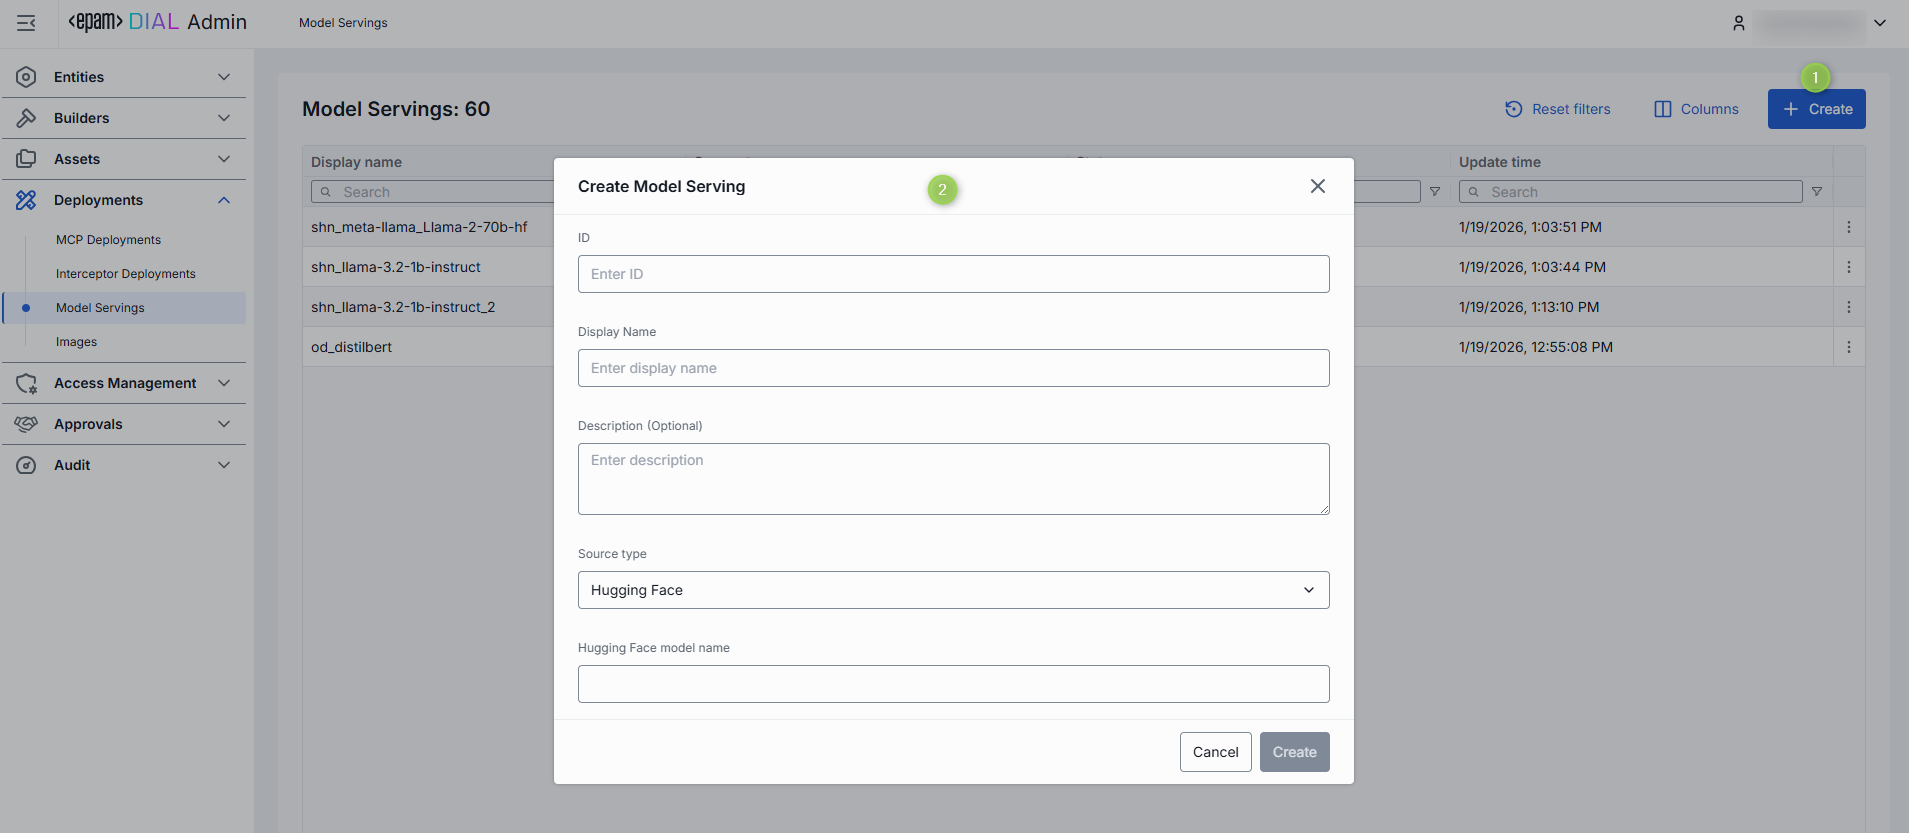
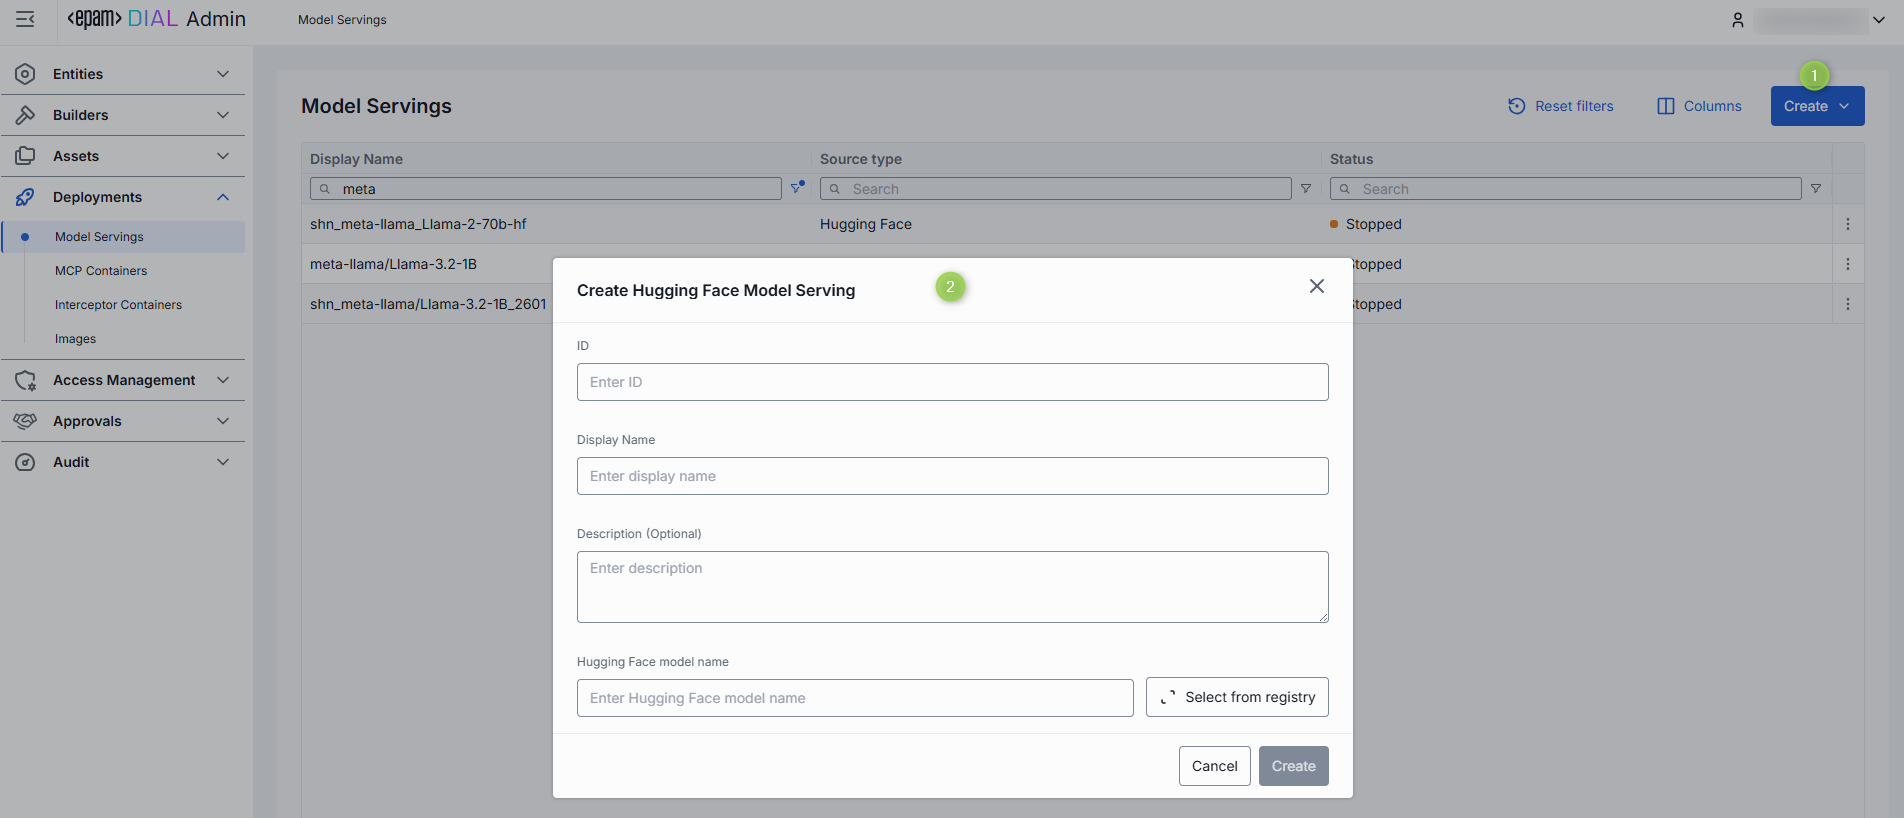
review model serving

diff --git a/sidebars.js b/sidebars.js
@@ -608,18 +608,18 @@ const sidebars = {
                   items: [
                     {
                       type: 'doc',
+                      id: 'tutorials/admin/deployments-models',
+                      label: 'Model Servings',
+                    },
+                    {
+                      type: 'doc',
                       id: 'tutorials/admin/deployments-mcp',
-                      label: 'MCP Deployments',
+                      label: 'MCP Containers',
                     },
                     {
                       type: 'doc',
                       id: 'tutorials/admin/deployments-interceptors',
-                      label: 'Interceptor Deployments',
-                    },
-                    {
-                      type: 'doc',
-                      id: 'tutorials/admin/deployments-models',
-                      label: 'Model Servings',
+                      label: 'Interceptor Containers',
                     },
                     {
                       type: 'doc',

diff --git a/docs/tutorials/3.admin/deployments-models.md b/docs/tutorials/3.admin/deployments-models.md
@@ -28,49 +28,48 @@ On the main screen, you can view existing and add new AI model servings.
 
 ##### Model servings grid
 
-|Field|Description|
-|---|----|
-|Display Name|Name of the model serving rendered on UI.|
-|Description|Brief description of the model serving.|
-|Source Type|Source type of the model (NIM or Hugging Face).|
-|Status|Current status of the model serving.|
-|ID|Unique identifier for the model serving.|
-|Container URL|URL of the container where the model is hosted.<br />Available for a running container.|
-|Maintainer|Person or team responsible for maintaining the model serving.|
-|Create time|Date and time when the model serving was created.|
-|Update time|Date and time when the model serving was last updated.|
+| Field | Description |
+|-------|-------------|
+| Display Name | Name of the model serving rendered on UI. |
+| Description | Brief description of the model serving. |
+| Source Type | Source type of the model (NIM or Hugging Face). |
+| Status | Current status of the model serving. |
+| ID | Unique identifier for the model serving. |
+| Container URL | URL of the container where the model is hosted.<br />Available for a running container. |
+| Maintainer | Person or team responsible for maintaining the model serving. |
+| Create time | Date and time when the model serving was created. |
+| Update time | Date and time when the model serving was last updated. |
 
-## Create
+## Create Model Serving
 
-On the main screen, click the **Create** button to open the Create Model Serving form.
+On the main screen, use the **Create** button to create Hugging Face or NIM model servings.
 
 ##### To create a new model serving:
 
-1. Click the **Create** button on the main screen to open the Create Model Serving form.
-2. Fill in the required fields in the form:
+1. Click the **Create** button on the main screen and select which type of model serving you want to create.
+2. Fill in the required fields in the Model Serving form:
    - **ID**: Unique identifier for the model serving.
    - **Display Name**: Enter a name for the model serving.
    - **Description**: Provide a brief description of the model serving.
-   - **Source Type**: Select the source type (NIM or Hugging Face).
-   - **Hugging Face Model Name**: Applies to Hugging Face source type. Enter the name of the model from Hugging Face.
+   - **Hugging Face Model Name**: Applies to Hugging Face source type. Enter the name of the model from Hugging Face or select from the registry.
    - **Docker Image URI**: Applies to NIM source type. Enter the Docker image URI for the model.
 3. Click the **Create** button to submit the form and create the model serving.
 
 ![](img/create_model_serving.png)
 
-## Configuration Screen
+## Configuration
 
-Click any model serving from the main screen to open its configuration screen.
+Click any model serving from the main screen to open its configuration.
 
 ### Actions
 
 In the header of the Configuration screen, you can find the following action buttons:
 
-| Action         | Description                                                  |
-|----------------|--------------------------------------------------------------|
-| Create Model          | Available for running model servings.<br />Click to create a new [model deployment](/docs/tutorials/3.admin/entities-models.md) using this selected model serving.|
-| Run/Stop        | Click to start or stop the selected model serving.|  
-| Delete         | Click to delete the selected model serving.|
+| Action | Description |
+|--------|-------------|
+| Create Model | Available for running model servings.<br />Click to create a new [model deployment](/docs/tutorials/3.admin/entities-models.md) using this selected model serving. |
+| Run/Stop | Click to start or stop the selected model serving. |
+| Delete | Click to delete the selected model serving. |
 
 ![ ](img/model_serving_actions.png)
 
@@ -92,24 +91,26 @@ You can use a **running** model serving container to create a new model deployme
 
 In the Properties tab, you can view and edit the selected model serving container settings.
 
-| Property         | Required | Editable | Description                                                  |
-|------------------|----------|---------|----------------------------------------------------|
-|ID                | - |No|Unique identifier of the model serving container.                  |
-|Type| - |No|Container by default.|
-|Creation Time| - |No|Date and time when the model serving container was created.        |
-|Updated Time| - |No|Date and time when the model serving container was last updated.    |
-|Status| - |No|Current status of the model serving container. |
-|URL| - |No|URL of the container where the model is hosted.|
-|Display Name | Yes |Yes|Name of the model serving container rendered in UI.                               |
-|Description | No  |Yes|Brief description of the model serving container.                   |
-|Maintainer | No  |Yes|Person or team responsible for maintaining the model serving container.|
-|Source Type| Yes |Yes|Source type of the model (NIM or Hugging Face).|
-|Hugging Face model name| Conditional |Yes|Applies to Hugging Face source type.<br/>The name of the model from Hugging Face.|
-|Docker Image URI| Conditional |Yes|Applies to NIM source type.<br/>The Docker image URI for the model.|
-|Endpoint Configuration| No |Yes|Port configuration for the model serving.|
-|Environment Variables| No |Yes|List of environment variables for the model serving.|
-|Resources| No |Yes|Resource allocation settings for the model serving (CPU, Memory, GPU).|
-|Configuration| No |Additional configuration settings for the model serving container.|
+> **Note**: Configuration fields are disabled when the container is in a transition state (launching or stopping).
+
+| Property | Required | Editable | Description |
+|----------|----------|----------|-------------|
+| ID | - | No | Unique identifier of the model serving container. |
+| Creation Time | - | No | Date and time when the model serving container was created. |
+| Updated Time | - | No | Date and time when the model serving container was last updated. |
+| Status | - | No | Current status of the model serving container. |
+| Restarts | - | No | Restart counter for launching containers. |
+| URL | - | No | URL of the running container where the model is hosted. |
+| Display Name | Yes | Yes | Name of the model serving container rendered in UI. |
+| Description | No | Yes | Brief description of the model serving container. |
+| Maintainer | No | Yes | Person or team responsible for maintaining the model serving container. |
+| Hugging Face model name | Conditional | Yes | Applies to Hugging Face models.<br/>The name of the model from Hugging Face. |
+| Docker Image URI | Conditional | Yes | Applies to NIM models.<br/>The Docker image URI for the model. |
+| Endpoint Configuration | No | Yes | Port configuration for the model serving. <br /> **Note**: Running container will be redeployed when these settings change. |
+| Environment Variables | No | Yes | List of environment variables for the model serving. <br /> **Note**: Running container will be redeployed when these settings change. |
+| Resources | No | Yes | Resource allocation settings for the model serving (CPU, Memory, GPU). <br /> **Note**: Running container will be redeployed when these settings change. |
+| Configuration | No | Yes | Command that defines the executable and its options to launch the model serving. Arguments provide extra parameters for customization during startup. |
+| Autoscaling | No | Yes | **Note**: Autoscaling is available for Hugging Face models. <br />Parameters to dynamically adjust AI model replicas based on demand. <br /> - **Automatic scale to zero**: Use to define criteria to reduce replicas to zero to save resources. <br />- **Min and Max Replicas**: Sets the minimum and maximum number of model instances that can run, ensuring availability and controlling costs. <br /> - **Pending requests to trigger autoscaling**: Specifies the number of queued requests required to trigger scaling up, helping maintain performance during traffic spikes. |
 
 ![ ](img/model_serving_properties.png)
 
@@ -117,9 +118,25 @@ In the Properties tab, you can view and edit the selected model serving containe
 
 ![ ](img/model_serving_json_editor.png)
 
+## Firewall settings 
+
+A whitelist domains setting in your model serving container configuration specifies which domains are allowed to access the model's API or service. This is a security feature that restricts incoming requests, so only trusted domains (such as your company’s website or specific client applications) can interact with the model.
+
+**Domain name requirements**: Enter the domain name without protocol, e.g., github.com. Each domain must have at least one dot, labels can include letters, numbers, and hyphens (1–63 chars, not starting or ending with a hyphen), and the top-level domain must be at least 2 letters.
+
+![ ](img/model_servings_firewall.png)
+
 ## Execution log
 
 In the Execution Log tab, you can view the logs related to the operations and activities of the selected model serving.
+
+Use model serving container health indicators to identify problems:
+
+| Indicator | Description |
+|-----------|-------------|
+| Restarts | Restart counter for launching containers. Use to identify crash loops. |
+| Last restarted at | Timestamp of the last model serving restart. |
+| Last reason | Restart failure reason. |
 
 ![ ](img/model_servings_execution_log.png)
 
